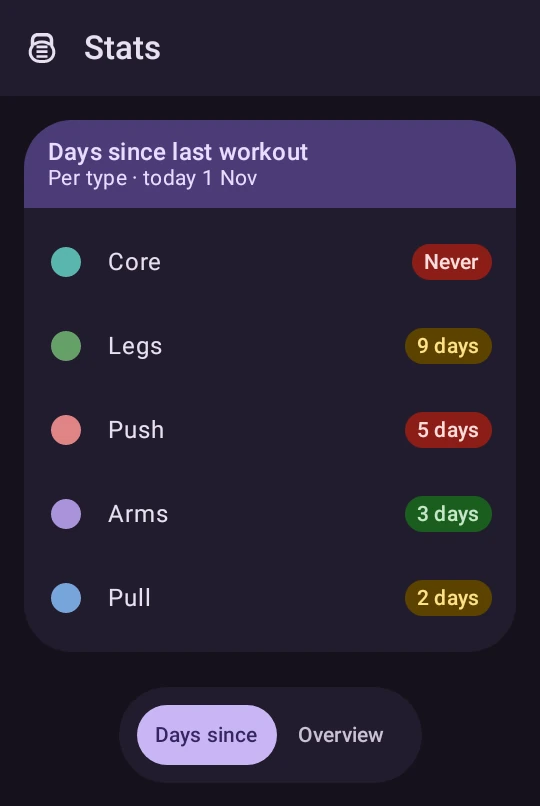
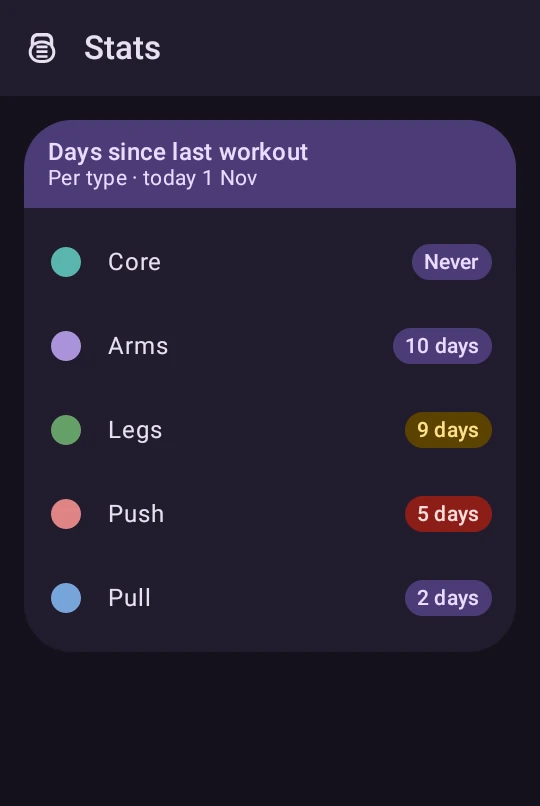
Help: updated for version 2.7.6 (neutral Days since chip for Off, faded previous/next-month days, edge swipe opens the menu in One-handed mode)

diff --git a/help/index.html b/help/index.html
@@ -28,7 +28,7 @@
     <img src="../assets/liftloq-logo-light.svg" alt="Liftloq" width="198" height="56" />
   </picture>
   <h1>How to use Liftloq</h1>
-  <p class="meta">Local workout calendar · No account required · Dark theme only · Updated for version 2.7.5</p>
+  <p class="meta">Local workout calendar · No account required · Dark theme only · Updated for version 2.7.6</p>
 
   <p>Liftloq keeps your workout plan on your device. Mark days on the calendar, manage workout types, plan and time HYROX workouts, and optionally track supplement spending — without signing in.</p>
 
@@ -40,6 +40,7 @@
     <li>Tap <strong>Save</strong>. Nothing is stored until you save. <strong>Clear day</strong>, <strong>Cancel</strong> and <strong>Save</strong> float in a bar at the bottom of the sheet; everything scrolls up clear above it, Notes included (also with the keyboard open).</li>
     <li><strong>Save an empty day:</strong> to remove a workout, unmark it (tap its chip, or a HYROX row’s checkbox) and tap <strong>Save</strong>. Save works even when the day ends up with nothing selected; the day’s workouts are cleared and its note stays unless you clear the note too. On a new day with nothing picked, Save stays off. <strong>Clear day</strong> removes everything at once, note included.</li>
     <li>The day shows one colour band per entry: Bodybuilding first, then HYROX.</li>
+    <li>The days from the previous and next month at the start and end of the grid show their workouts too, slightly faded, so the current month stands out. The month widget shows them the same way.</li>
     <li><strong>Jump to a month:</strong> tap the month name at the top (it has a small ▾ arrow). <strong>Go to month</strong> opens with the year and all 12 months: the month you are looking at is filled, today’s month is outlined. Use ‹ › to change the year, then tap a month to jump there. <strong>This month</strong> jumps back to today; <strong>Cancel</strong> keeps the calendar where it was. The ‹ › arrows next to the title and swiping left or right on the month still move one month at a time.</li>
     <li>The <strong>menu</strong> button is the kettlebell at the top left of each page (in <strong>One-handed mode</strong> it is at the bottom; see <a href="#one-handed">One-handed mode</a>).</li>
   </ol>
@@ -47,6 +48,11 @@
   <figure>
     <img src="images/help-calendar.webp" alt="Liftloq Calendar month view" loading="lazy" width="540" height="888" />
     <figcaption>Calendar: tap a day to open it. Each day shows up to 3 colour bands; the type name appears when there is 1 entry. Tap the month name to jump to another month.</figcaption>
+  </figure>
+
+  <figure>
+    <img src="images/help-calendar-overlap.webp" alt="November 2026 month grid: October 26, 27, 29 and 31 and December 2 and 4 show Pull, Legs, Push and Cardio workouts in faded colours; November days are at full colour" loading="lazy" width="540" height="486" />
+    <figcaption>Days from October and December keep their workouts, slightly faded.</figcaption>
   </figure>
   <figure>
     <img src="images/help-month-picker.webp" alt="Go to month dialog: the year 2026 with arrows, a grid of the 12 months with October filled, and Cancel and This month buttons" loading="lazy" width="540" height="666" />
@@ -75,7 +81,7 @@
   <ol class="steps">
     <li>Open a Bodybuilding type (tap it, or <strong>+</strong> for a new one). Below <strong>Brightness</strong>, <strong>Sessions per week</strong> sets how often you want to train it: <strong>Off</strong> or <strong>1</strong>–<strong>7</strong>. Then tap <strong>Save</strong>. It works the same in Simple and Advanced bodybuilding; a new type starts at Off.</li>
     <li>The target sets the colours in Stats › <strong>Days since</strong> for that type. With a target of <em>t</em> sessions a week, the chip is <strong>green</strong> up to 7 ÷ <em>t</em> days (rounded down), <strong>red</strong> from 14 ÷ <em>t</em> days (rounded up), and <strong>yellow</strong> in between. A type you have never logged is red.</li>
-    <li>For example: at 3 a week it is green for 0–2 days, yellow for 3–4 and red from 5; at 1 a week, green up to 7 days, yellow 8–13 and red from 14. With <strong>Off</strong> the usual colours apply: green 0–3 days, yellow 4–6, red 7 or more.</li>
+    <li>For example: at 3 a week it is green for 0–2 days, yellow for 3–4 and red from 5; at 1 a week, green up to 7 days, yellow 8–13 and red from 14. With <strong>Off</strong> there is no target, so the chip has no warning colour: it uses the same purple as the card’s heading, also for a type you have never logged.</li>
   </ol>
   <figure>
     <img src="images/help-bb-sessions-per-week.webp" alt="Edit type sheet for Push with Sessions per week buttons Off and 1 to 7, 3 selected, above Cancel and Save" loading="lazy" width="540" height="986" />
@@ -211,13 +217,13 @@
   <h2>6. Stats</h2>
   <ol class="steps">
     <li>Menu → <strong>Stats</strong>. The bottom toggle has <strong>Days since</strong> (opens first), <strong>Overview</strong>, <strong>HYROX</strong> (only while HYROX is on) and <strong>Progress</strong> (only in Advanced bodybuilding). While Progress is there, the toggle shows icons only.</li>
-    <li><strong>Days since</strong> shows how long ago you last did each type, longest first (types you have never logged at the top): green 0–3 days, yellow 4–6, red 7 or more (or never). A type with a <a href="#sessions-per-week">Sessions per week</a> target uses colours scaled to that target instead.</li>
+    <li><strong>Days since</strong> shows how long ago you last did each type, longest first (types you have never logged at the top). A type with a <a href="#sessions-per-week">Sessions per week</a> target is green, yellow or red depending on how it is going against that target. A type with no target (Off) and HYROX types show a neutral chip in the heading’s purple.</li>
     <li><strong>Overview</strong> shows this week or month by type; <strong>HYROX</strong> shows History, templates and best splits.</li>
     <li><strong>Swipe up</strong> to go to the next tab: Days since → Overview → HYROX → Progress → Days since. Long tabs scroll normally first; the tab only changes when you keep swiping up at the bottom. The toggle follows.</li>
   </ol>
   <figure>
-    <img src="images/help-stats-days-since.webp" alt="Stats Days since tab sorted longest first: Core never, Legs 9 days, Push 5 days, Arms 3 days, Pull 2 days, with red, yellow and green chips" loading="lazy" width="540" height="806" />
-    <figcaption>Stats opens on Days since, longest first. With targets (Push 3, Pull 4, Legs 1, Arms 2 a week): Push is red at 5 days, Legs yellow at 9; Core has no target and was never logged.</figcaption>
+    <img src="images/help-stats-days-since.webp" alt="Stats Days since tab sorted longest first: Core never, Arms 10 days, Legs 9 days, Push 5 days, Pull 2 days; Legs is yellow, Push red, and Core, Arms and Pull have purple chips" loading="lazy" width="540" height="806" />
+    <figcaption>Stats opens on Days since, longest first. Push (3 a week) is red at 5 days and Legs (1 a week) yellow at 9; Core, Arms and Pull have no target, so their chips are purple.</figcaption>
   </figure>
   <h3>Progress (Advanced bodybuilding)</h3>
   <ol class="steps">
@@ -283,7 +289,7 @@
     <li>Turn the switch on: the row shows <strong>unsaved</strong>. Tap <strong>Save</strong> to apply it; the app reloads with the new layout. Leaving Settings without Save keeps the current layout. Turn it off the same way.</li>
     <li>When it is on, Calendar, Bodybuilding, HYROX, Stats and Supps cost have one button at the bottom centre, always in the same place. Its left half (the kettlebell) opens the menu; its right half is the page’s main action, the same as the round button in normal mode: add a workout today on the Calendar, and <strong>+</strong> on Bodybuilding, HYROX and Supps cost. Stats has no main action, so it shows only the menu button, below the Stats tabs.</li>
     <li>Settings keeps its usual <strong>Save</strong> button in the bottom-right corner, exactly as when One-handed mode is off. Settings has no menu button in this mode, so to leave it, use your phone’s back button or back gesture: it takes you to the Calendar. <strong>About Liftloq</strong> at the end of Settings opens the About page; its back arrow returns to Settings.</li>
-    <li>The menu opens as a panel from the bottom with the same pages as before. Swipe it down, tap outside it or press back to close it. In this mode the menu does not open by swiping in from the left edge; the other swipes (swiping up at the end of a list, swiping left below the calendar to the next card) work as before.</li>
+    <li>The menu opens as a panel from the bottom with the same pages as before. Swipe it down, tap outside it or press back to close it. Swiping in from the left edge opens the full side menu, the same as when One-handed mode is off; the other swipes (swiping up at the end of a list, swiping left below the calendar to the next card) work as before.</li>
     <li>The top-left menu button is hidden in this mode, on every page. Lists scroll underneath the bottom button, and the last item can always be scrolled clear of it. <strong>Start HYROX</strong> on the Calendar sits above it. During a HYROX race the race buttons are shown instead.</li>
   </ol>
   <figure>
